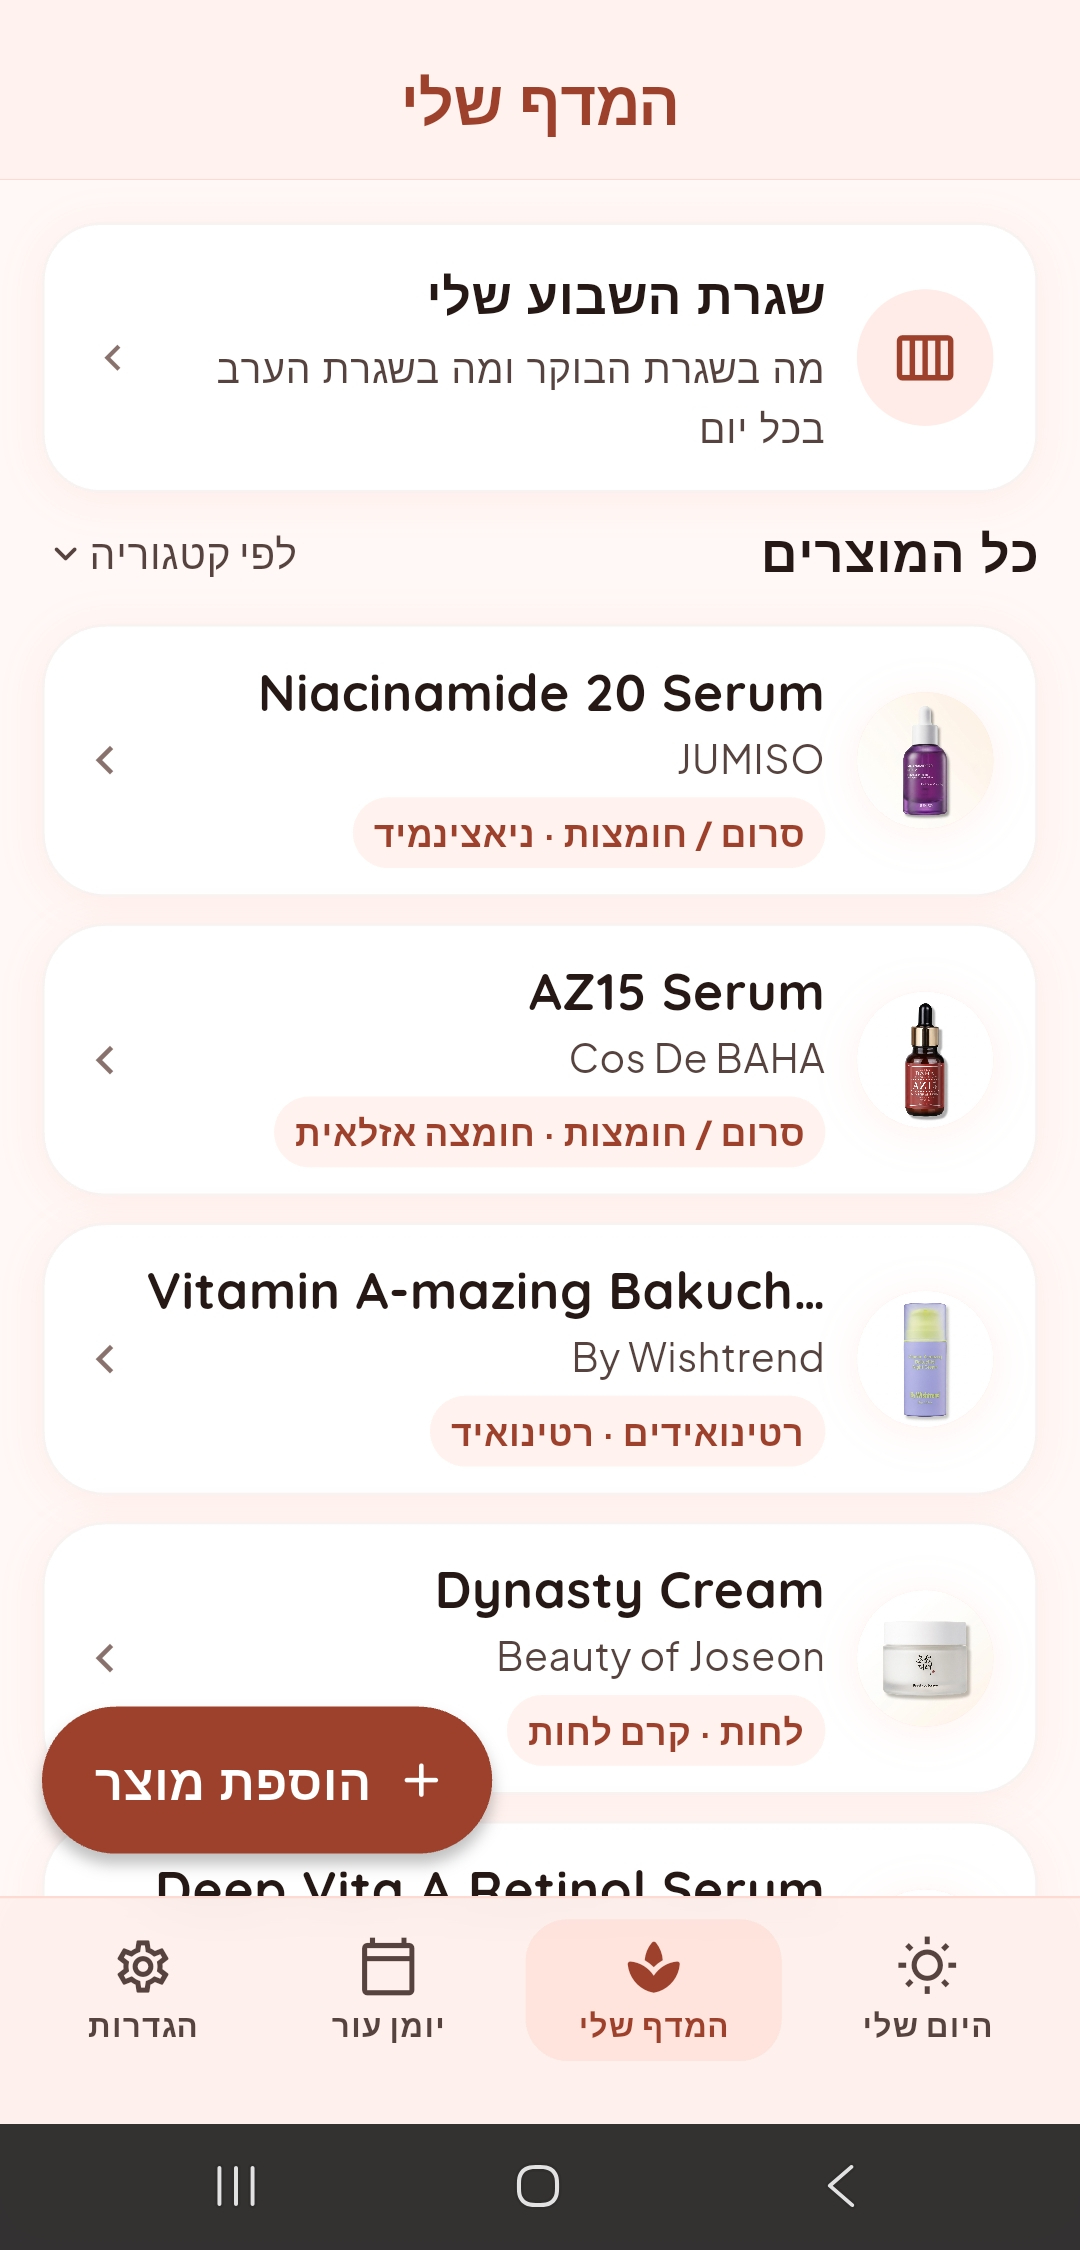
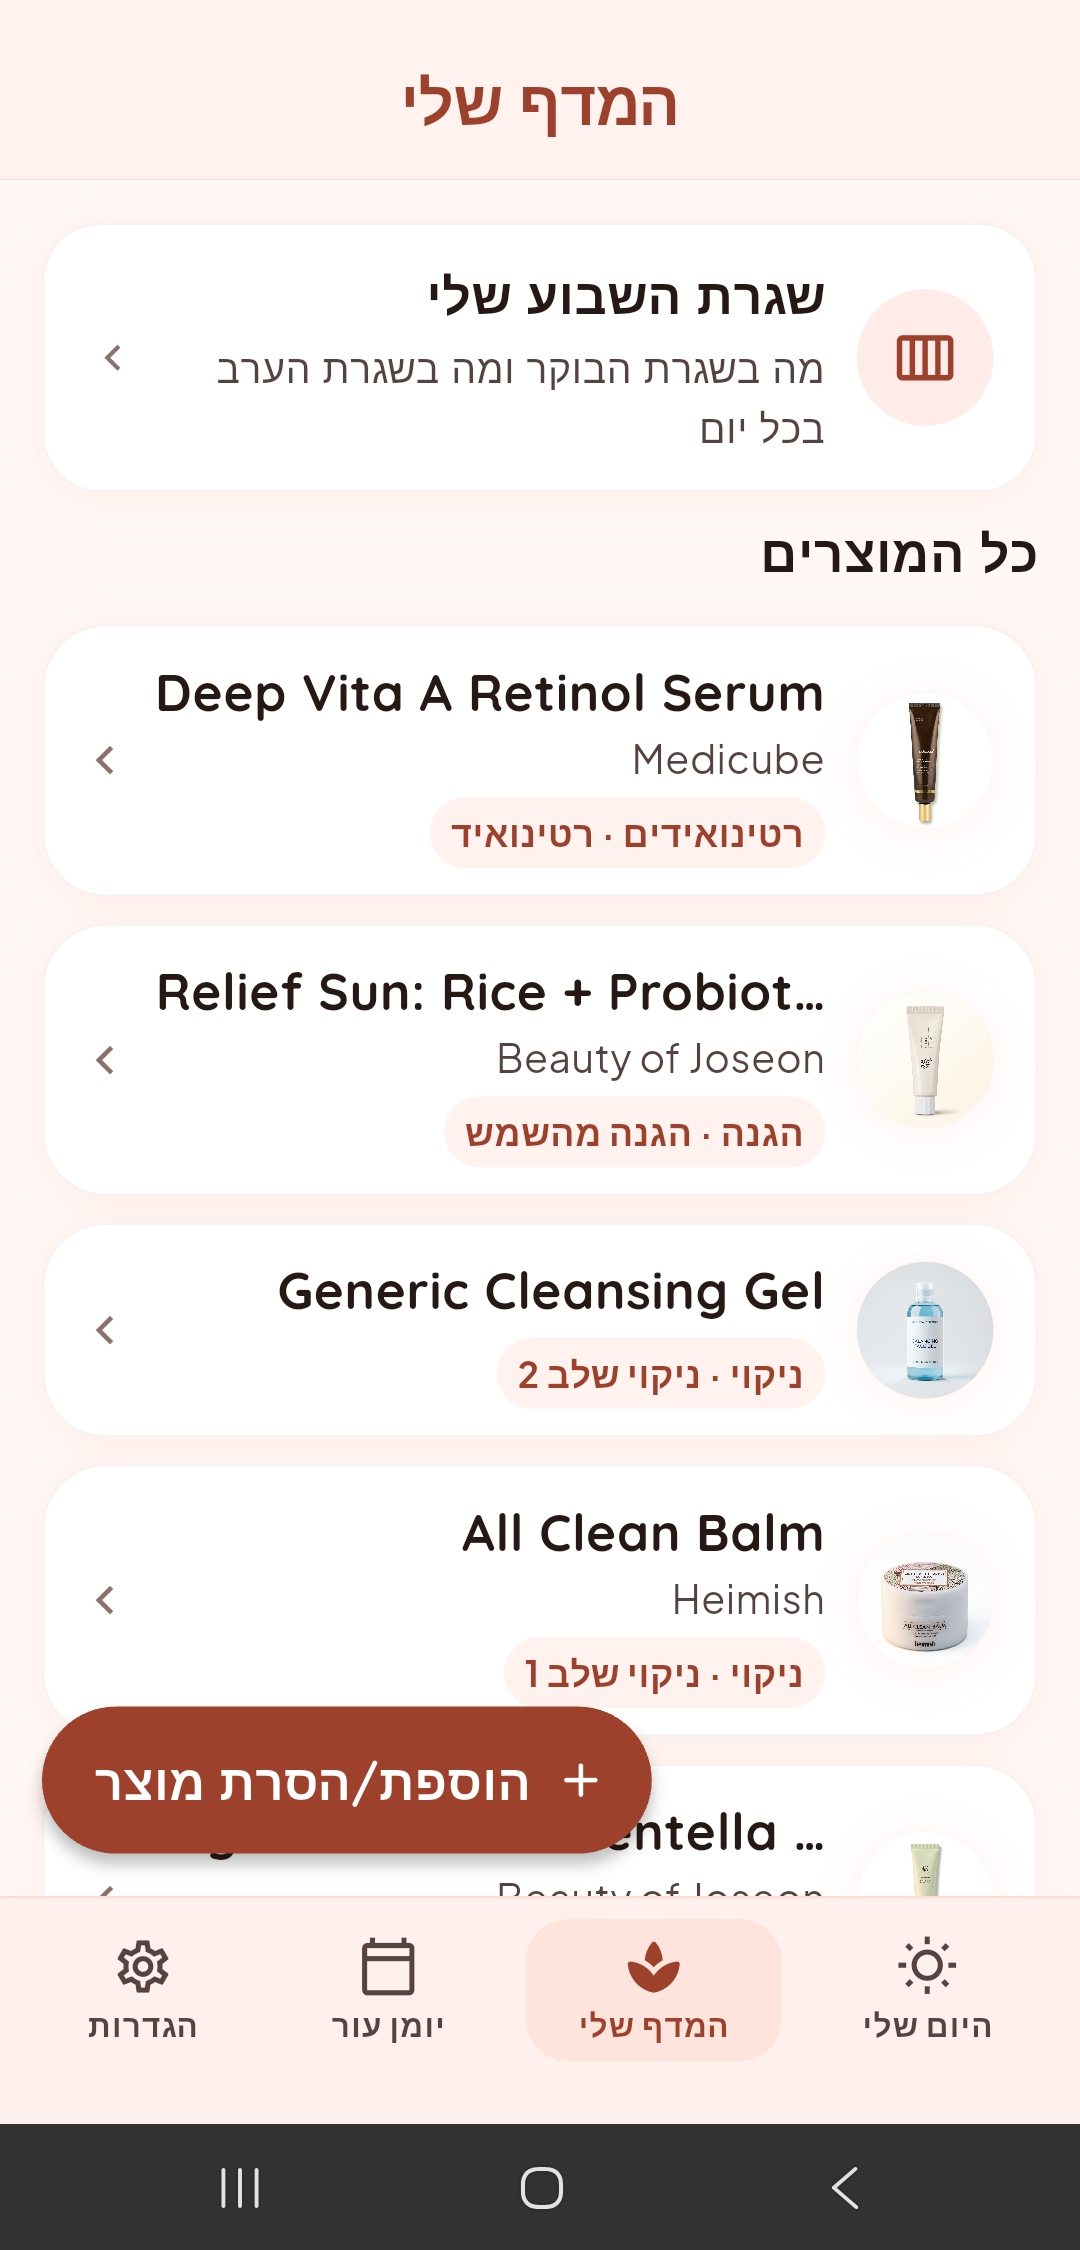
prepare version and fix english issues

diff --git a/lib/features/setup/schedule_setup_screen.dart b/lib/features/setup/schedule_setup_screen.dart
@@ -1523,21 +1523,24 @@ class _DayProductCard extends StatelessWidget {
                         color: AppColors.surfaceLow,
                         borderRadius: BorderRadius.circular(999),
                       ),
-                      child: Row(
-                        mainAxisSize: MainAxisSize.min,
-                        children: [
-                          const Icon(Icons.event_repeat_rounded,
-                              size: 9,
-                              color: AppColors.onSurfaceVariant),
-                          const SizedBox(width: 3),
-                          Text(
-                            scheduleText,
-                            style: AppTypography.labelSm.copyWith(
-                              color: AppColors.onSurfaceVariant,
-                              fontSize: 9,
-                            ),
+                      child: Text.rich(
+                        TextSpan(
+                          style: AppTypography.labelSm.copyWith(
+                            color: AppColors.onSurfaceVariant,
+                            fontSize: 9,
                           ),
-                        ],
+                          children: [
+                            const WidgetSpan(
+                              alignment: PlaceholderAlignment.middle,
+                              child: Icon(Icons.event_repeat_rounded,
+                                  size: 9,
+                                  color: AppColors.onSurfaceVariant),
+                            ),
+                            TextSpan(text: ' $scheduleText'),
+                          ],
+                        ),
+                        maxLines: 1,
+                        overflow: TextOverflow.ellipsis,
                       ),
                     ),
                     if (hasConflict)

diff --git a/lib/shared/widgets/primary_button.dart b/lib/shared/widgets/primary_button.dart
@@ -42,14 +42,16 @@ class PrimaryButton extends StatelessWidget {
                 Icon(leadingIcon, color: Colors.white, size: 19),
                 const SizedBox(width: 8),
               ],
-              Text(
-                label,
-                maxLines: 1,
-                overflow: TextOverflow.ellipsis,
-                style: AppTypography.labelMd.copyWith(
-                  color: Colors.white,
-                  fontWeight: FontWeight.w700,
-                  fontSize: 15.5,
+              Flexible(
+                child: Text(
+                  label,
+                  maxLines: 1,
+                  overflow: TextOverflow.ellipsis,
+                  style: AppTypography.labelMd.copyWith(
+                    color: Colors.white,
+                    fontWeight: FontWeight.w700,
+                    fontSize: 15.5,
+                  ),
                 ),
               ),
               if (trailingIcon != null) ...[

diff --git a/lib/features/home/week_glance_screen.dart b/lib/features/home/week_glance_screen.dart
@@ -841,7 +841,7 @@ class _WWeekMatrix extends StatelessWidget {
 
     return Column(
       children: [
-        // Day header row
+        // Day header row — text rotated vertically to fit the narrow columns
         Row(
           children: [
             const Expanded(child: SizedBox()),
@@ -849,9 +849,12 @@ class _WWeekMatrix extends StatelessWidget {
               SizedBox(
                 width: _kDayColW,
                 child: Center(
-                  child: Text(
-                    dayAbbrevs[i],
-                    style: dayHeaderStyle,
+                  child: RotatedBox(
+                    quarterTurns: 1,
+                    child: Text(
+                      dayAbbrevs[i],
+                      style: dayHeaderStyle,
+                    ),
                   ),
                 ),
               ),
@@ -872,8 +875,7 @@ class _WWeekMatrix extends StatelessWidget {
                       ),
                     ),
                   ),
-            child: _WMatrixRow(
-                spread: products[pi], slot: slot),
+            child: _WMatrixRow(spread: products[pi], slot: slot),
           );
         }),
       ],

diff --git a/lib/features/onboarding/onboarding_screen.dart b/lib/features/onboarding/onboarding_screen.dart
@@ -298,7 +298,6 @@ class _OnboardingScreenState extends ConsumerState<OnboardingScreen> {
                 Text(l.onboardingNamePrompt),
                 const SizedBox(height: 8),
                 TextField(
-                  textDirection: TextDirection.rtl,
                   decoration: InputDecoration(
                     hintText: l.onboardingNameHint,
                     border: OutlineInputBorder(

diff --git a/doc/Play Store/google_play_store_notes.md b/doc/Play Store/google_play_store_notes.md
@@ -39,9 +39,9 @@ See `doc/Play Store/full_description.md`. Added a feature bullet for the weekly 
 
 ### Screenshots
 
-Consider adding/refreshing screenshots for:
-- The weekly skin-tracking reminder card on the home screen.
-- The new routine summary screen.
+A refreshed screenshot set is ready under `assets/for_play_store/screenshots/` (7 each, **English + Hebrew**): Add Custom Product, Barcode Scan, Fetched Data, My Shelf, Routine – grid, Routine – List, Week Glance. Upload both locales in Play Console.
+
+Not yet captured (optional to add this release): the weekly skin-tracking reminder card and the new routine summary screen.
 
 Play Console minimum: 2 screenshots per form factor.
 
@@ -75,7 +75,7 @@ Play Console minimum: 2 screenshots per form factor.
 - [ ] Signed with the same keystore (never change the signing key)
 - [ ] `flutter build appbundle --release` completes without errors
 - [ ] Smoke-test: weekly reminder appears → capture photo+note → card hides; Settings toggle hides it; routine summary screen renders; product wizard add/remove → routine rebuilds
-- [ ] Screenshots updated for the weekly reminder + routine summary (if UI shown to users changed)
+- [x] Refreshed screenshot set ready (EN + HE) under `assets/for_play_store/screenshots/`; upload both locales in Play Console
 - [ ] `doc/Play Store/full_description.md` updated and copy-pasted into Play Console
 - [ ] `doc/Play Store/short_description.md` — no change this release
 - [ ] No Data safety / permissions / privacy-policy actions needed this release